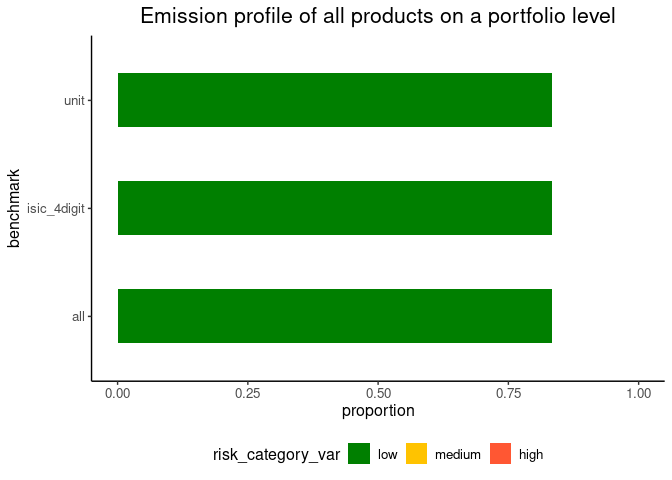
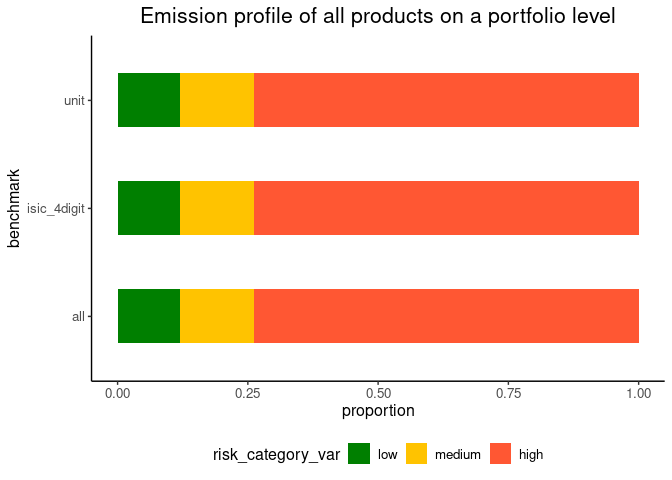
refactored function + built readme file

Changed region(s): [[0.25, 0.125, 0.9688, 0.2812], [0.25, 0.5938, 0.9688, 0.7188], [0.25, 0.375, 0.9688, 0.5]]

diff --git a/README.md b/README.md
@@ -183,8 +183,6 @@ Plot on a portfolio level.
 ``` r
 bar_plot_emission_profile(no_fin, benchmarks, mode = "equal_weight") +
   labs(title = "Emission profile of all products on a portfolio level")
-#> Warning: Removed 48 rows containing missing values or values outside the scale range
-#> (`geom_col()`).
 ```
 
 <img src="man/figures/README-unnamed-chunk-12-1.png" width="100%" />
